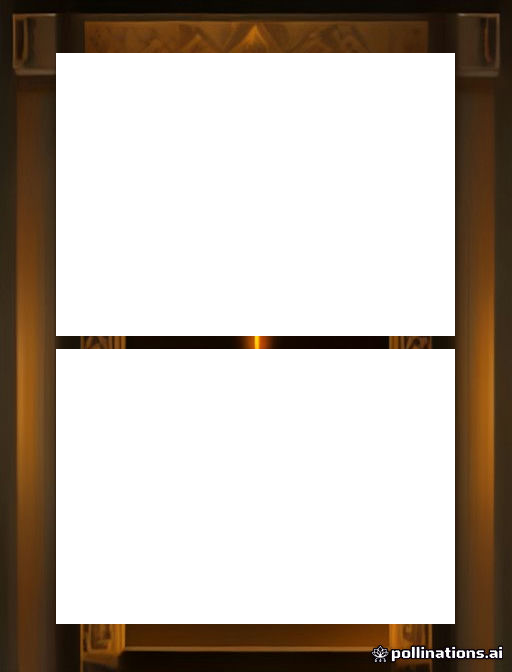
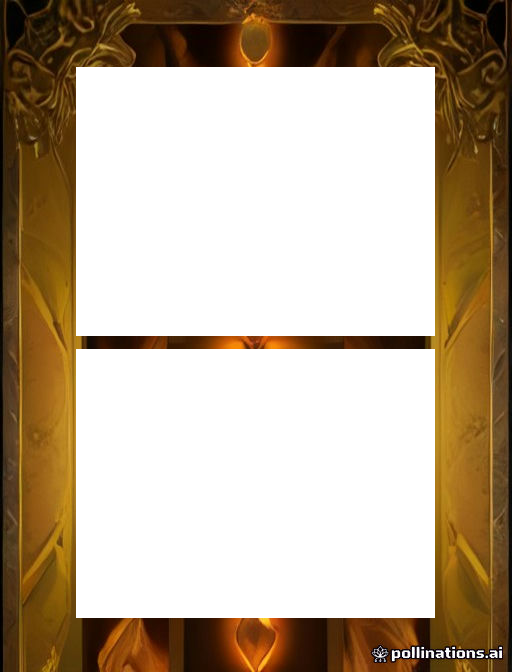
修复卡框倾斜+增大卡牌尺寸字体+描述多行显示
- 重新生成所有5个卡框PNG，提示词增加对称/不倾斜约束
- 卡牌尺寸 110×145 → 120×158
- 小卡字体 name 11→13, desc 9→11
- 详情卡字体 name 18→20, desc 14→16
- 移除描述文字单行截断(OVERRUN_TRIM_ELLIPSIS)，改为多行自动换行
- name_h 0.10→0.09
- _calc_columns 调用 110→120

diff --git a/art_assets/generate_frames.py b/art_assets/generate_frames.py
@@ -21,7 +21,10 @@ STYLE = (
     "only the wide ornate border frame is visible, "
     "vertical portrait card layout, "
     "silver and dark grey metal tones with subtle wear, "
-    "high quality game UI design, symmetrical, "
+    "high quality game UI design, "
+    "perfectly symmetrical left right mirror symmetry, "
+    "perfectly straight horizontal vertical no tilt no rotation no perspective, "
+    "flat 2D front view no 3D no angle, "
     "no text no watermark no letters no words"
 )
 
